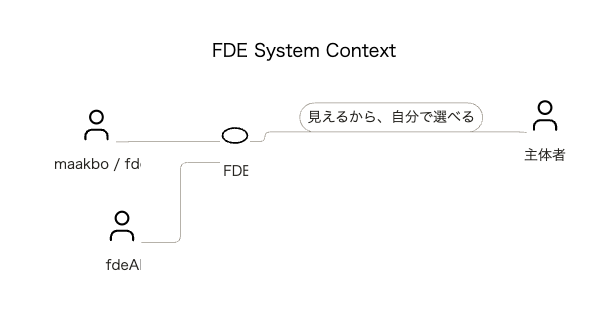
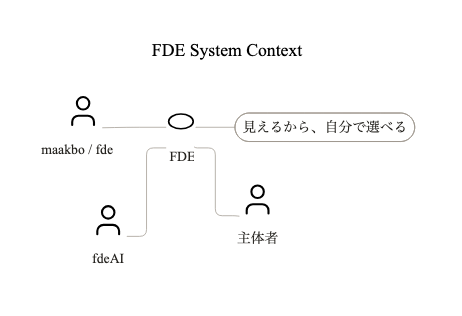
Use direct purpose relation in FDE context

diff --git a/examples/maakbo-fde/system-context.md b/examples/maakbo-fde/system-context.md
@@ -28,21 +28,15 @@ config:
     fontSize: "14px"
 ---
 flowchart LR
-  subgraph providers[" "]
-    direction TB
-    a_maakbo_fde@{ label: "maakbo / fde", img: "https://raw.githubusercontent.com/maakbo/fde/main/assets/icons/lucide-thin/user.svg", pos: "b", w: 38, h: 38, constraint: "on" }
-    a_fde_ai@{ label: "fdeAI", img: "https://raw.githubusercontent.com/maakbo/fde/main/assets/icons/lucide-thin/user.svg", pos: "b", w: 38, h: 38, constraint: "on" }
-  end
-  subgraph fde_business[" "]
-    direction TB
-    p_visible_choice(["見えるから、自分で選べる"])
-    b_fde@{ label: "FDE", img: "https://raw.githubusercontent.com/maakbo/fde/main/assets/icons/lucide-thin/ellipse.svg", pos: "b", w: 30, h: 30, constraint: "on" }
-    b_fde ~~~ p_visible_choice
-  end
+  a_maakbo_fde@{ label: "maakbo / fde", img: "https://raw.githubusercontent.com/maakbo/fde/main/assets/icons/lucide-thin/user.svg", pos: "b", w: 38, h: 38, constraint: "on" }
+  a_fde_ai@{ label: "fdeAI", img: "https://raw.githubusercontent.com/maakbo/fde/main/assets/icons/lucide-thin/user.svg", pos: "b", w: 38, h: 38, constraint: "on" }
+  b_fde@{ label: "FDE", img: "https://raw.githubusercontent.com/maakbo/fde/main/assets/icons/lucide-thin/ellipse.svg", pos: "b", w: 30, h: 30, constraint: "on" }
   a_subject@{ label: "主体者", img: "https://raw.githubusercontent.com/maakbo/fde/main/assets/icons/lucide-thin/user.svg", pos: "b", w: 38, h: 38, constraint: "on" }
+  p_visible_choice(["見えるから、自分で選べる"])
 
   a_maakbo_fde --- b_fde
   a_fde_ai --- b_fde
+  b_fde --- p_visible_choice
   b_fde --- a_subject
 
   class a_maakbo_fde,a_fde_ai,a_subject actor;
@@ -52,10 +46,7 @@ flowchart LR
   classDef actor fill:none,stroke:none,color:#25231F;
   classDef business fill:none,stroke:none,color:#25231F;
   classDef purpose fill:#FFFFFF,stroke:#9E988E,color:#25231F,stroke-width:0.75px;
-  style providers fill:none,stroke:none;
-  style fde_business fill:none,stroke:none;
   linkStyle default stroke:#9E988E,stroke-width:0.75px;
-  linkStyle 0 stroke:transparent,fill:none;
 ```
 
 ## Boundary
